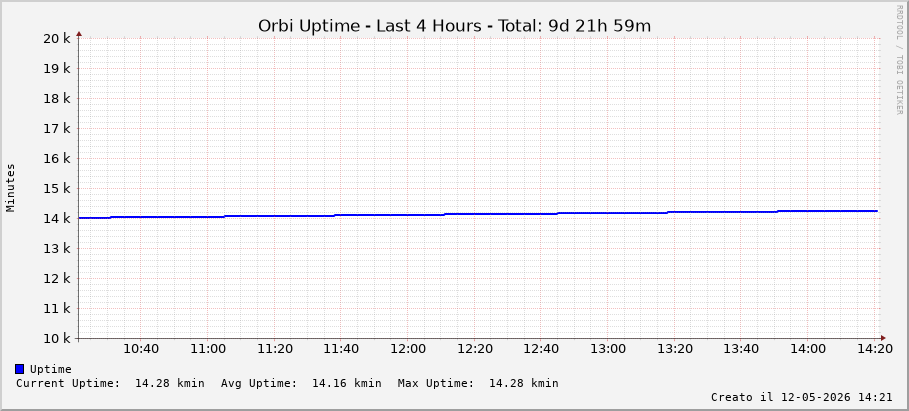
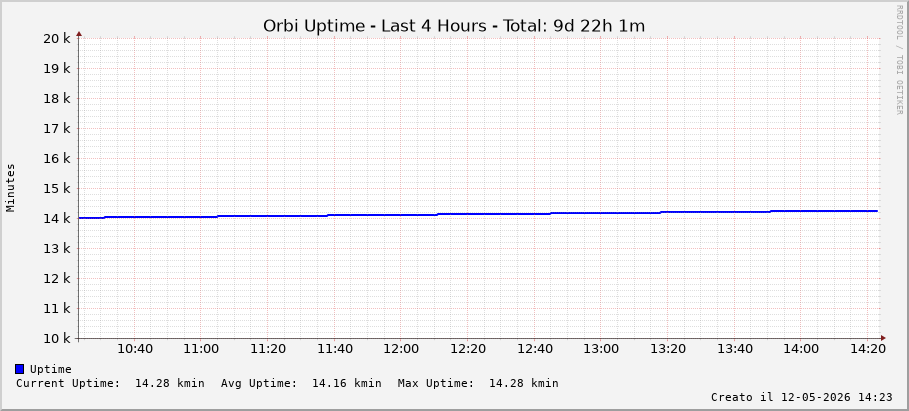
RBR50 update 2026-05-12 14:24:02

diff --git a/index.html b/index.html
@@ -41,38 +41,38 @@
 
 <div class="graph-container">
     <h2>Ultime 4 Ore</h2>
-    <img class="graph" src="images/orbi_traffic_1h.png?v=1778588521" alt="Traffico Ultima Ora">
-    <img class="graph" src="images/orbi_uptime_1h.png?v=1778588521" alt="Uptime Ultima Ora">
+    <img class="graph" src="images/orbi_traffic_1h.png?v=1778588641" alt="Traffico Ultima Ora">
+    <img class="graph" src="images/orbi_uptime_1h.png?v=1778588641" alt="Uptime Ultima Ora">
 </div>
 
 <div class="graph-container">
     <h2>Ultimo Giorno</h2>
-    <img class="graph" src="images/orbi_traffic_1d.png?v=1778588521" alt="Traffico Ultimo Giorno">
-    <img class="graph" src="images/orbi_uptime_1d.png?v=1778588521" alt="Uptime Ultimo Giorno">
+    <img class="graph" src="images/orbi_traffic_1d.png?v=1778588641" alt="Traffico Ultimo Giorno">
+    <img class="graph" src="images/orbi_uptime_1d.png?v=1778588641" alt="Uptime Ultimo Giorno">
 </div>
 
 <div class="graph-container">
     <h2>Ultima Settimana</h2>
-    <img class="graph" src="images/orbi_traffic_1w.png?v=1778588521" alt="Traffico Ultima Settimana">
-    <img class="graph" src="images/orbi_uptime_1w.png?v=1778588521" alt="Uptime Ultima Settimana">
+    <img class="graph" src="images/orbi_traffic_1w.png?v=1778588641" alt="Traffico Ultima Settimana">
+    <img class="graph" src="images/orbi_uptime_1w.png?v=1778588641" alt="Uptime Ultima Settimana">
 </div>
 
 <div class="graph-container">
     <h2>Ultimo Mese</h2>
-    <img class="graph" src="images/orbi_traffic_1m.png?v=1778588521" alt="Traffico Ultimo Mese">
-    <img class="graph" src="images/orbi_uptime_1m.png?v=1778588521" alt="Uptime Ultimo Mese">
+    <img class="graph" src="images/orbi_traffic_1m.png?v=1778588641" alt="Traffico Ultimo Mese">
+    <img class="graph" src="images/orbi_uptime_1m.png?v=1778588641" alt="Uptime Ultimo Mese">
 </div>
 
 <div class="graph-container">
     <h2>Ultimo Anno</h2>
-    <img class="graph" src="images/orbi_traffic_1y.png?v=1778588521" alt="Traffico Ultimo Anno">
-    <img class="graph" src="images/orbi_uptime_1y.png?v=1778588521" alt="Uptime Ultimo Anno">
+    <img class="graph" src="images/orbi_traffic_1y.png?v=1778588641" alt="Traffico Ultimo Anno">
+    <img class="graph" src="images/orbi_uptime_1y.png?v=1778588641" alt="Uptime Ultimo Anno">
 </div>
 
 <div class="graph-container">
     <h2>Ultimi 5 Anni</h2>
-    <img class="graph" src="images/orbi_traffic_5y.png?v=1778588521" alt="Traffico Ultimi 5 Anni">
-    <img class="graph" src="images/orbi_uptime_5y.png?v=1778588521" alt="Uptime Ultimi 5 Anni">
+    <img class="graph" src="images/orbi_traffic_5y.png?v=1778588641" alt="Traffico Ultimi 5 Anni">
+    <img class="graph" src="images/orbi_uptime_5y.png?v=1778588641" alt="Uptime Ultimi 5 Anni">
 </div>
 
 <div class="footer">
